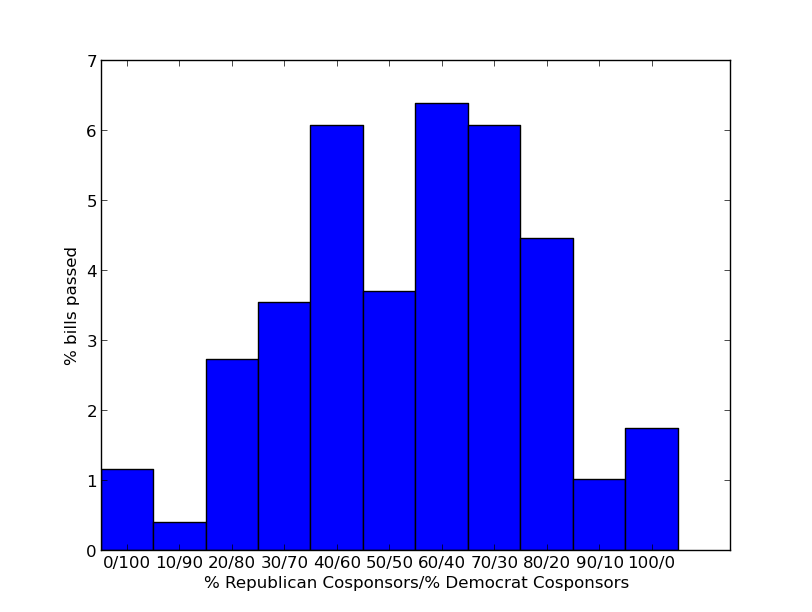
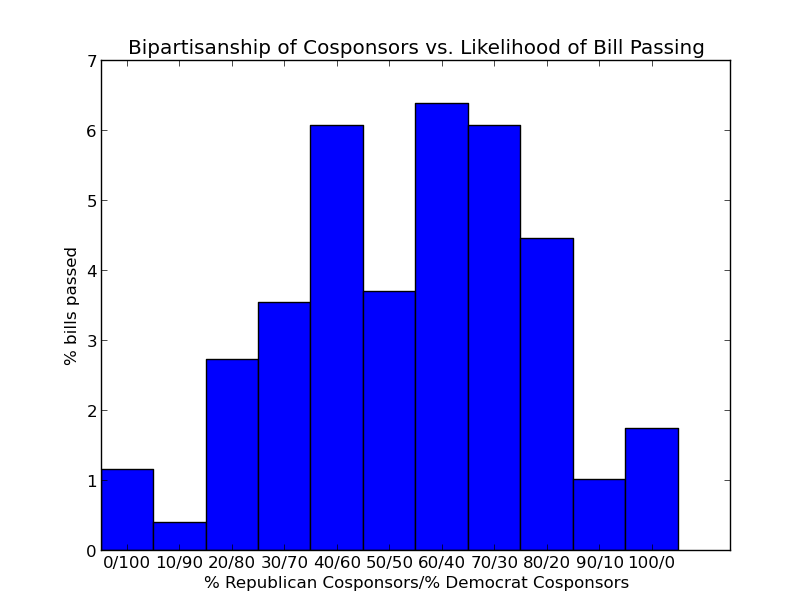
added more detailed bipartisan graphs

Changed region(s): [[0.1539, 0.0621, 0.8621, 0.0931]]

diff --git a/analyze.py b/analyze.py
@@ -321,6 +321,7 @@ def bipart(data):
     fig.canvas.set_window_title("bipartisanship_vs_likelihood_to_pass")
     ax.set_xlabel("% Republican Cosponsors/% Democrat Cosponsors")
     ax.set_ylabel("% bills passed")
+    ax.set_title("Bipartisanship of Cosponsors vs. Likelihood of Bill Passing")
     plt.show()
 
 
@@ -340,14 +341,10 @@ def bipart2(data):
                 r = 0
                 d = 0
                 for s in bill['cosponsors']:
-                    #print s
                     if s['party'] == 'R':
                         r += 1
                     else:
                         d += 1
-                    ratio = r / float(d + r)
-                    print myround(ratio, 5)
-                    
                 if d + r != 0:
                     rat = myround(r/float(d+r), 5) # % republicans
                     ratio = ratios[rat]
@@ -367,7 +364,6 @@ def bipart2(data):
     types = []
     for i in range(0, 21):
         types.append(ratios[(i * 5)])
-    print types
     result = []
     
     for i in types:
@@ -382,6 +378,7 @@ def bipart2(data):
     fig.canvas.set_window_title("bipartisanship_vs_likelihood_to_pass")
     ax.set_xlabel("% Republican Cosponsors/% Democrat Cosponsors")
     ax.set_ylabel("% bills passed")
+    ax.set_title("Bipartisanship of Cosponsors vs. Likelihood of Bill Passing")
     plt.show()
 
 bipart2(data)
